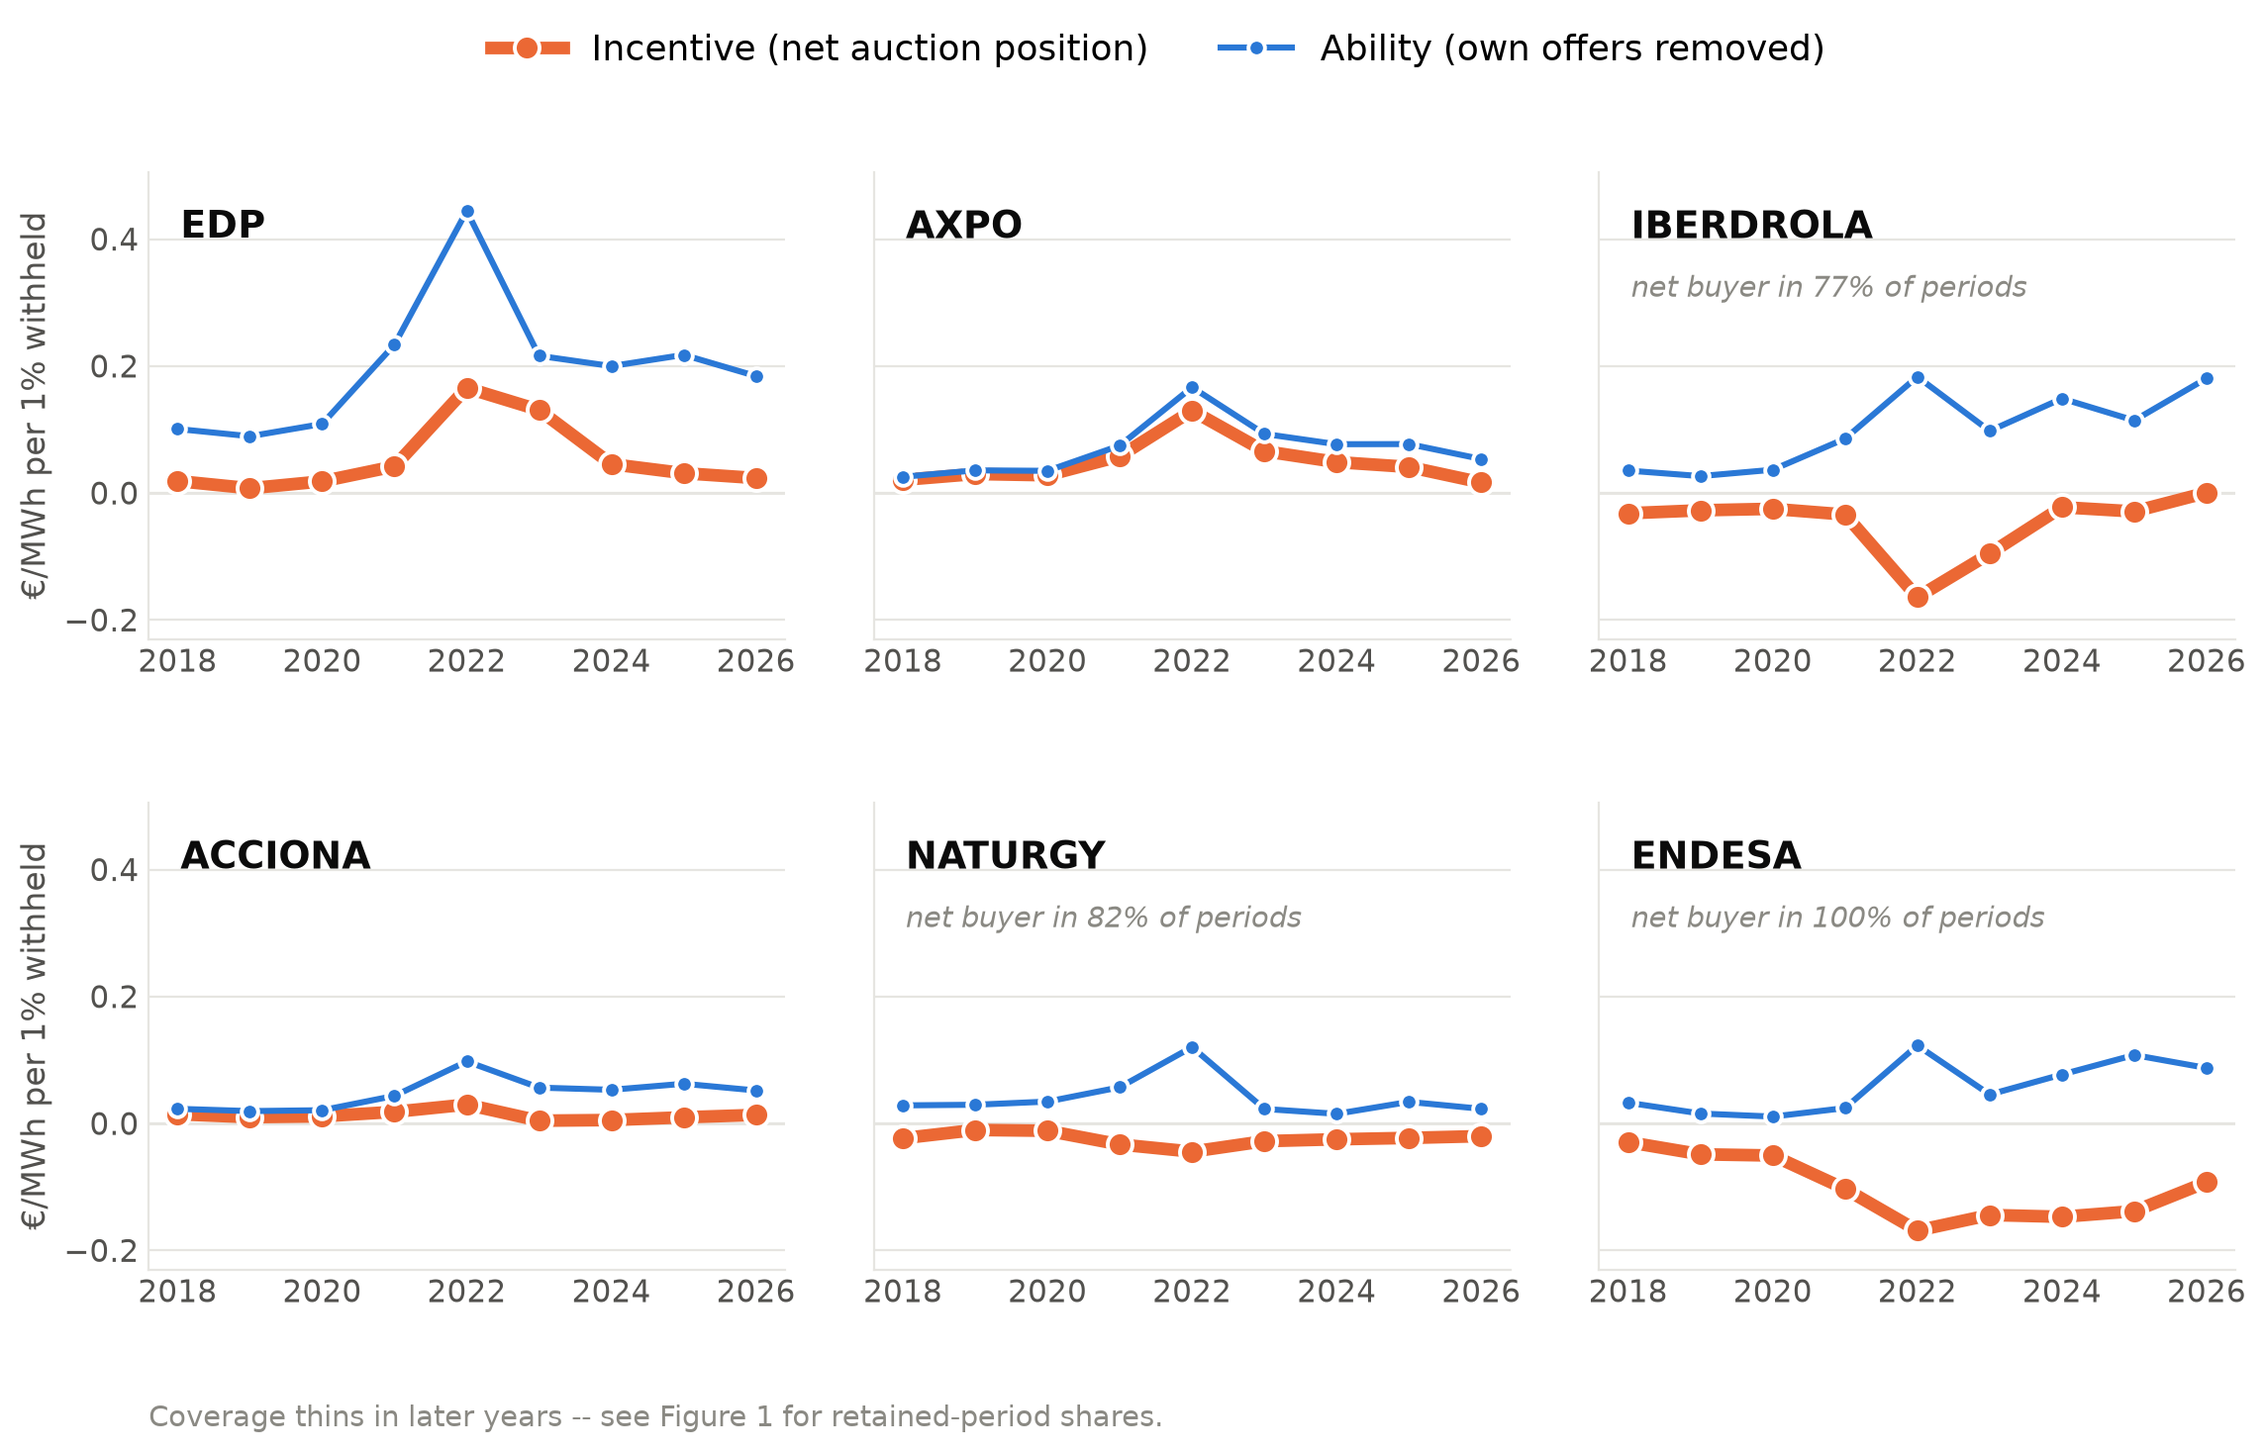
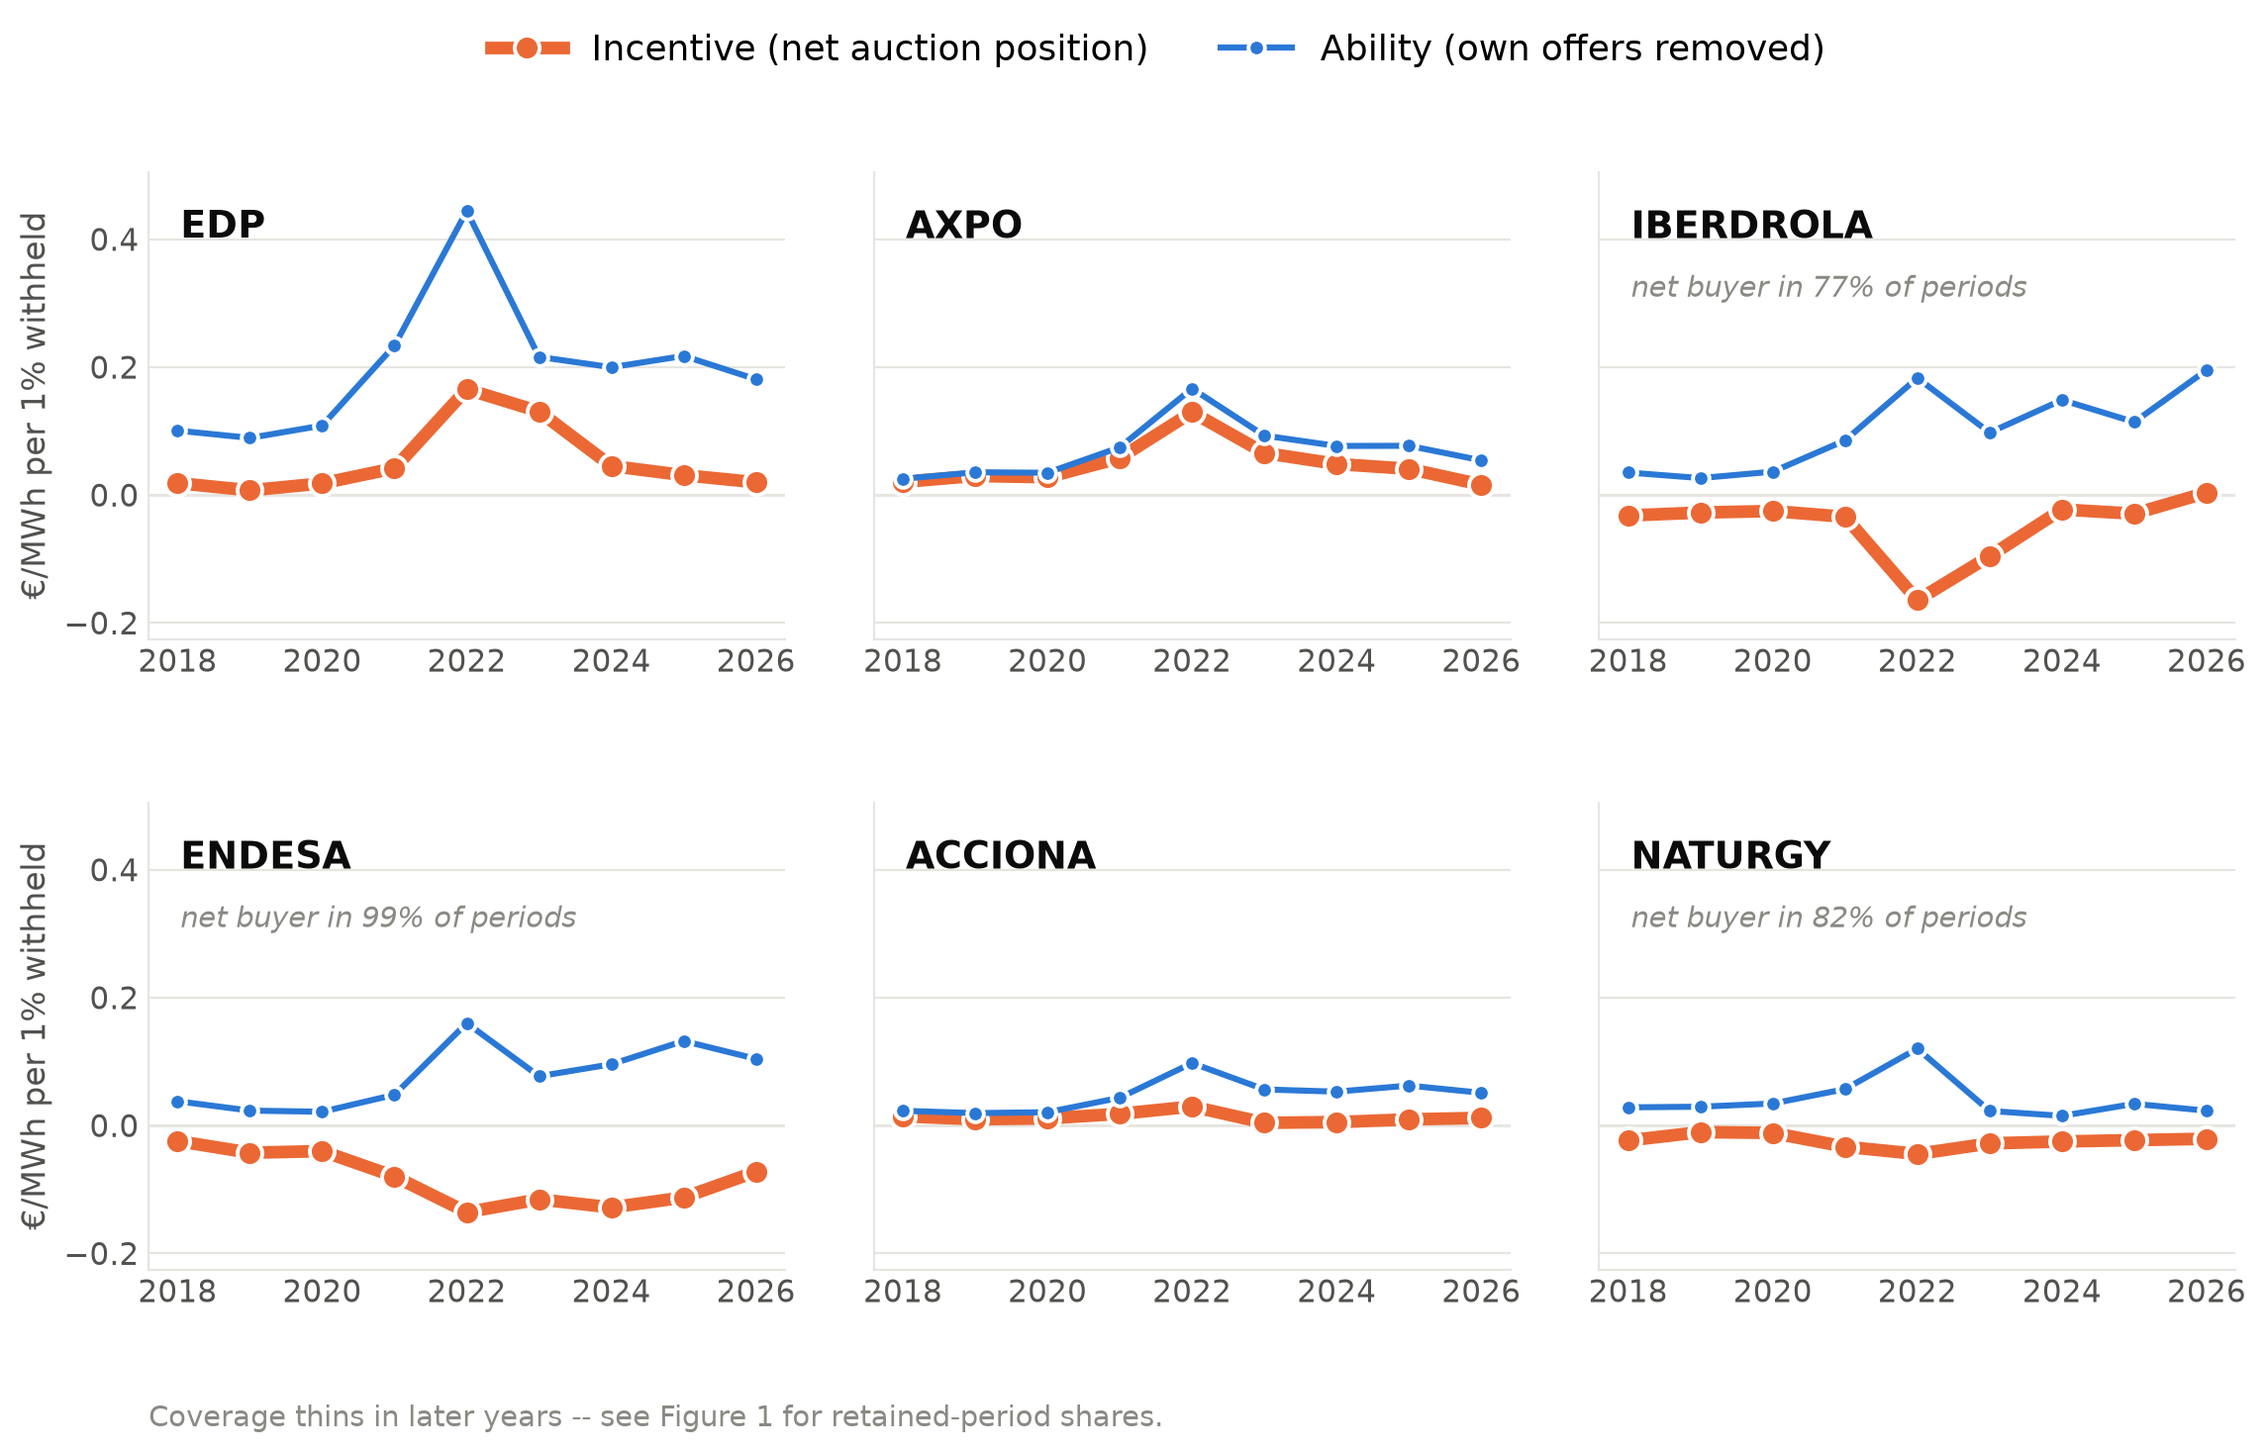
Merge Enel Green Power España into the Endesa owner group
Endesa Generación has owned all of Enel Green Power España since 2016,
but layer 1 grouped it as ENEL after the ESIOS legal name, so Endesa's
residual-demand slope counted its own renewables as a rival's offers.
GROUP_MERGES in build_owner_groups.py folds it in (2 entities, 47 units,
2.1% of supply volume); the owner-tier theta panel, firm panel and
indices are rebuilt on it.

Endesa's ability rises (2022: 0.123 -> 0.160) and its incentive shrinks
but keeps its sign (2022: -0.169 -> -0.135); it is a net buyer in 95-100%
of periods every year. The 2026 column also moves for every firm because
the panel now runs to 2026-05-31.

diff --git a/scripts/build/build_owner_groups.py b/scripts/build/build_owner_groups.py
@@ -127,6 +127,23 @@ MANUAL_GROUPS: dict[str, tuple[str, str]] = {
         "ENCE's biomass arm; ESIOS assigns 12/12 to ENCE"),
 }
 
+# Group-level merges: two group LABELS that are one corporate group. Needed when
+# layer 1 established a group from a legal NAME rather than from ownership --
+# the manual layer above only fills entities layer 1 left open, so it cannot
+# correct a layer-1 label. Applied after all three layers; each carries both
+# in-data evidence and the ownership fact.
+GROUP_MERGES: dict[str, tuple[str, str]] = {
+    "ENEL": ("ENDESA",
+        "Enel Green Power Espana is 100% owned by Endesa Generacion, which bought "
+        "the remaining 60% from Enel Green Power International in 2016 (Enel and "
+        "Endesa filings, July 2016) -- the whole window. In the data, two of the "
+        "entity's own units (ECY*) carry the ESIOS agent ENDESA COGENER Y "
+        "RENOVABLES, which the ESIOS chain assigns to ENDESA; ESIOS labels the "
+        "rest ENEL after the legal name. Standing apart, it made Endesa's "
+        "residual-demand slope count Endesa's own renewables as a rival's "
+        "(merged 2026-09-29)"),
+}
+
 
 def strip_accents(s: str) -> str:
     return "".join(c for c in unicodedata.normalize("NFKD", s)
@@ -208,6 +225,15 @@ def build(verbose: bool = True) -> pd.DataFrame:
     # because no rule found evidence to merge it into another. For a genuinely
     # standalone firm -- Shell, Statkraft, Movhera -- that is the right answer.
     e["source"] = e.source.fillna("self")
+
+    # Group-level merges, last, so they can join a label layer 1 established.
+    for src, (dst, _why) in GROUP_MERGES.items():
+        hit = e.group == src
+        e.loc[hit, "group"] = dst
+        e.loc[hit, "source"] = e.loc[hit, "source"] + "+merge"
+        if verbose:
+            print(f"  group merge {src} -> {dst}: {int(hit.sum())} entities, "
+                  f"{int(e.loc[hit, 'n_units'].sum())} units")
 
     if verbose:
         print(f"{len(e):,} distinct agent_owner strings -> "

diff --git a/scripts/analysis/firm_incentive_rebuild.py b/scripts/analysis/firm_incentive_rebuild.py
@@ -50,7 +50,7 @@ BIDS = DATA / "omie/bids/parquet"
 PANEL = ROOT / "outputs/tables/firm_residual_demand_full_owner.parquet"
 OUT = ROOT / "outputs/tables/firm_incentive_net.parquet"
 MIN_SLOPE = 5.0     # MW per EUR/MWh, as in edp_hydro_panel.py
-TABLE_FIRMS = ["EDP", "IBERDROLA", "ENDESA", "ENEL", "NATURGY", "ACCIONA", "AXPO", "REPSOL"]
+TABLE_FIRMS = ["EDP", "IBERDROLA", "ENDESA", "NATURGY", "ACCIONA", "AXPO", "REPSOL"]
 KEY = ["date", "period"]
 
 
@@ -129,10 +129,8 @@ def report(f: pd.DataFrame) -> None:
         print(f"  h={h:g}: slope_net below {MIN_SLOPE:g} on {(f[f'slope_net_h{h:g}'] < MIN_SLOPE).mean():.4f} "
               f"of firm-periods (index undefined there); median slope_net/slope_i "
               f"{(f[f'slope_net_h{h:g}'] / f[f'slope_i_h{h:g}']).median():.3f}")
-    s = f[f.firm.isin(["ENDESA", "ENEL"])].groupby("firm").agg(
-        periods=("q_firm_mw", "size"), cleared_twh=("q_firm_mw", lambda x: x.sum() / 1e6))
-    print("  ENDESA and ENEL stand as separate groups in the owner mapping:")
-    print(s.round(2).to_string())
+    # Enel Green Power Espana is Endesa's; build_owner_groups.GROUP_MERGES folds it in.
+    print(f"  firm-periods still labelled ENEL: {(f.firm == 'ENEL').sum():,} (0 expected)")
     print(f"\nwrote {OUT.relative_to(ROOT)}  ({len(f):,} firm-periods)")
 
 

diff --git a/notes/rq-descriptive-price-formation.md b/notes/rq-descriptive-price-formation.md
@@ -269,10 +269,13 @@ observable marginal cost.
 > | firm | 2018 | 2020 | 2022 | 2023 | 2024 | 2025 | 2026 | panel `q − θ` says |
 > |---|---|---|---|---|---|---|---|---|
 > | Iberdrola | −4.32 | −3.38 | −3.99 | −3.65 | −1.97 | −1.63 | −2.18 | buyer, up to 4× too large |
-> | **Endesa** | −4.10 | −7.69 | −5.30 | −6.62 | **−8.00** | **−6.44** | **−5.27** | **seller from 2024** ✗ |
+> | **Endesa** | −3.25 | −6.20 | −4.34 | −5.42 | **−6.31** | **−5.65** | **−4.03** | **seller from 2024** ✗ |
 > | Naturgy | −3.24 | −1.70 | −0.38 | −1.53 | −0.98 | −1.18 | −0.45 | buyer ✓ |
 > | Repsol | +1.42 | +0.93 | +1.09 | +0.97 | −0.66 | −0.53 | −0.54 | ≈ the same ✓ |
 > | EDP (+ EDP Comercial) | +1.92 | +2.50 | +0.26 | +1.26 | +2.11 | +0.76 | +0.38 | seller ✓ |
+>
+> Endesa includes Enel Green Power España since the merge of 2026-09-29 (below);
+> before it the row read −4.10, −7.69, −5.30, −6.62, −8.00, −6.44, −5.27.
 >
 > - **Iberdrola, Naturgy and (from 2024) Repsol are net day-ahead buyers on the
 >   correct measure** — the sign survives, for the right reason now.
@@ -304,7 +307,8 @@ observable marginal cost.
 
 **The indices rebuilt, 2026-09-29.** `scripts/analysis/firm_incentive_rebuild.py`
 reads the owner-tier firm panel and adds corrected columns beside the old ones
-(`outputs/tables/firm_incentive_net.parquet`, 5,499,066 firm-periods). Two
+(`outputs/tables/firm_incentive_net.parquet`, 5,524,288 firm-periods, to
+2026-05-31). Two
 changes: every unit a firm owns is mapped, so its own **buy** offers near p* are
 removed from its slope along with its sell offers (`slope_net`, `ability_net`);
 and the incentive uses the **net auction position**, `incentive_net = ability ×
@@ -317,28 +321,28 @@ Median `ability_net_h5`:
 
 | firm | 2018 | 2020 | 2022 | 2023 | 2024 | 2025 | 2026 |
 |---|---|---|---|---|---|---|---|
-| EDP | 0.101 | 0.109 | 0.444 | 0.216 | 0.200 | 0.218 | 0.184 |
-| IBERDROLA | 0.035 | 0.037 | 0.183 | 0.098 | 0.149 | 0.114 | 0.181 |
-| ENDESA | 0.033 | 0.011 | 0.123 | 0.046 | 0.077 | 0.108 | 0.087 |
+| EDP | 0.101 | 0.109 | 0.444 | 0.216 | 0.200 | 0.218 | 0.181 |
+| IBERDROLA | 0.035 | 0.037 | 0.183 | 0.098 | 0.149 | 0.114 | 0.195 |
+| ENDESA | 0.038 | 0.022 | 0.160 | 0.077 | 0.096 | 0.132 | 0.104 |
 | NATURGY | 0.028 | 0.034 | 0.120 | 0.023 | 0.015 | 0.034 | 0.023 |
-| ACCIONA | 0.023 | 0.021 | 0.098 | 0.056 | 0.053 | 0.063 | 0.052 |
-| AXPO | 0.025 | 0.035 | 0.167 | 0.093 | 0.077 | 0.077 | 0.053 |
-| REPSOL | 0.017 | 0.016 | 0.085 | 0.049 | 0.033 | 0.042 | 0.027 |
+| ACCIONA | 0.023 | 0.021 | 0.098 | 0.056 | 0.053 | 0.063 | 0.051 |
+| AXPO | 0.025 | 0.035 | 0.167 | 0.093 | 0.077 | 0.077 | 0.054 |
+| REPSOL | 0.017 | 0.016 | 0.085 | 0.049 | 0.033 | 0.042 | 0.028 |
 
 Removing own demand raises ability for EDP and Iberdrola only (Iberdrola 2024:
-0.121 → 0.149; 2026: 0.147 → 0.181); the rest move in the third decimal. **The
+0.121 → 0.149; 2026: 0.161 → 0.195); the rest move in the third decimal. **The
 ability results above stand, with Iberdrola's slightly higher from 2021.**
 
 Median `incentive_net_h5`, and the share of firm-periods as a net buyer:
 
 | firm | 2018 | 2020 | 2022 | 2023 | 2024 | 2025 | 2026 | net buyer, 2018 → 2026 |
 |---|---|---|---|---|---|---|---|---|
-| EDP | +0.019 | +0.018 | +0.166 | +0.131 | +0.045 | +0.031 | +0.024 | 14% → 27% (seller) |
-| IBERDROLA | −0.032 | −0.025 | −0.164 | −0.096 | −0.022 | −0.029 | 0.000 | **96% → 50%** |
-| ENDESA | −0.029 | −0.051 | −0.169 | −0.144 | −0.147 | −0.138 | −0.093 | **97% → 100%** |
-| NATURGY | −0.023 | −0.012 | −0.044 | −0.028 | −0.025 | −0.023 | −0.020 | 93% → 78% |
-| ACCIONA | +0.014 | +0.011 | +0.030 | +0.004 | +0.005 | +0.010 | +0.013 | 4% → 22% |
-| AXPO | +0.021 | +0.028 | +0.130 | +0.066 | +0.049 | +0.041 | +0.017 | 0% → 10% |
+| EDP | +0.019 | +0.018 | +0.166 | +0.131 | +0.045 | +0.031 | +0.020 | 14% → 31% (seller) |
+| IBERDROLA | −0.032 | −0.025 | −0.164 | −0.096 | −0.022 | −0.029 | +0.004 | **96% → 49%** |
+| ENDESA | −0.024 | −0.040 | −0.135 | −0.115 | −0.128 | −0.112 | −0.072 | **95% → 100%** |
+| NATURGY | −0.023 | −0.012 | −0.044 | −0.028 | −0.025 | −0.023 | −0.021 | 93% → 80% |
+| ACCIONA | +0.014 | +0.011 | +0.030 | +0.004 | +0.005 | +0.010 | +0.012 | 4% → 25% |
+| AXPO | +0.021 | +0.028 | +0.130 | +0.066 | +0.049 | +0.041 | +0.016 | 0% → 9% |
 | REPSOL | +0.008 | +0.005 | +0.024 | +0.007 | −0.010 | −0.013 | −0.017 | **1% → 90%** |
 
 What the rebuilt incentive says:
@@ -347,20 +351,34 @@ What the rebuilt incentive says:
   Axpo are sellers; Repsol becomes a buyer from 2024. The signs of the old index
   mostly survive, but its magnitudes did not: Iberdrola's 2022 value was
   −0.617 and is −0.164.
-- **Endesa never flips.** It is a net buyer in 97–100% of periods in every year;
+- **Endesa never flips.** It is a net buyer in 95–100% of periods in every year;
   the old index showed a flip to positive in 2024 (chain) or 2025 (owner) because
   Endesa moved its storage hydro from bilateral self-supply into the auction,
   which shrank θ and raised q without changing its net position.
 - **Iberdrola is drifting towards balance**: a net buyer in 96% of periods in
-  2018 and 50% in 2026 (a partial year), with the median incentive reaching zero.
+  2018 and 49% in 2026 (a partial year), with the median incentive reaching zero.
   New, and not yet explained.
 
-**A mapping issue this exposes.** `ENEL` (Enel Green Power España, 47 TWh of
-cleared sales in the panel) stands as a separate group from `ENDESA`, although it
-is Endesa's renewables subsidiary. It is a net seller in every period and would
-not change Endesa's sign, but Endesa's slope currently counts those offers as a
-rival's. `build_owner_groups.py` leaves it unmerged for want of evidence in the
-data; merging it would take a hand-verified case there.
+**`ENEL` merged into `ENDESA`, 2026-09-29.** Enel Green Power España (47 TWh of
+cleared sales in the panel) stood as a separate group, although Endesa
+Generación has owned all of it since 2016, so Endesa's slope counted its own
+renewables' offers as a rival's. `GROUP_MERGES` in `build_owner_groups.py` now
+folds it in (2 entities, 47 units, 2.1% of supply volume); the owner-tier θ panel,
+firm panel and indices were rebuilt on it. The tables above are the merged ones.
+For Endesa, 2018–2025, the change is the merge alone:
+
+- **ability rises** — 2020 0.011 → 0.022, 2022 0.123 → 0.160, 2025 0.108 →
+  0.132 — because its renewables join q and leave the rival band;
+- **the incentive shrinks but keeps its sign** — 2022 −0.169 → −0.135, 2024
+  −0.147 → −0.128 — because those renewables are net sellers; the net-buyer
+  share is 95–100% (was 97–100%), and the net position (box above) stays
+  negative in every year.
+
+The 2026 column moved for every firm for a second reason: the rebuilt panel runs
+to 2026-05-31 instead of 2026-05-08, since the bids were refreshed in between.
+Those shifts are in the third decimal except Iberdrola's ability (0.181 → 0.195).
+The inference-chain tier (`build_unit_agents.py`, `FIRM_TOKENS`) still keeps
+`ENEL` apart; only the owner tier is merged.
 
 Median `ability_h5` and `incentive_h5` (€/MWh per 1% withheld), top firms by
 cleared volume:
@@ -865,7 +883,7 @@ not after.
 | band density fell ~2/3 | **established** | falls as a step 2020→2022, not a slide |
 | the collapse is an *evening ramp* phenomenon | **rejected** | it is a midday phenomenon (§4.3) |
 | gas left the margin, hydro took it | **bounded** | resolved periods only, 69–81% coverage |
-| Iberdrola is a net day-ahead buyer | **established, on the net auction position** (rebuilt 2026-09-29) | so are Naturgy and Endesa in every year, and Repsol from 2024. Iberdrola's net-buyer share falls from 96% of periods (2018) to 50% (2026). The earlier evidence, `incentive`'s `(q − θ)`, double-subtracted contracts (§4.5) |
+| Iberdrola is a net day-ahead buyer | **established, on the net auction position** (rebuilt 2026-09-29) | so are Naturgy and Endesa in every year, and Repsol from 2024. Iberdrola's net-buyer share falls from 96% of periods (2018) to 49% (2026). The earlier evidence, `incentive`'s `(q − θ)`, double-subtracted contracts (§4.5) |
 | firm ability (price impact) rose across the window, peaking in 2022 | **established, rebuilt** | own demand now removed from the slope; changes only EDP and Iberdrola, upwards |
 | Endesa's flip to a positive incentive | **withdrawn** (2026-09-28) | an artefact of the double subtraction: Endesa moved hydro from bilateral into the auction in 2024 and stayed a net buyer (§4.5) |
 | θ measures contract position | **bounded** | physical bilateral only; misses financial hedges |

diff --git a/CLAUDE.md b/CLAUDE.md
@@ -351,11 +351,21 @@ below are wrong, and the `IGN` note is wrong in its reasoning even though it
 was right to reject Iberdrola.
 
 **`agent_owner` names legal entities; `build_owner_groups.py` rolls them up.**
-`data/omie/registry/owner_groups.parquet` maps **1,451 owner strings to 1,098
+`data/omie/registry/owner_groups.parquet` maps **1,451 owner strings to 1,097
 groups** on three evidence layers: the independent ESIOS chain's verdict on an
 entity's own units (**81.7%** of supply volume), a stem match onto a group that
 layer established (2.0%), seven hand-verified cases (0.3%), and **13.3% left
-standing as their own group** because no merge evidence was found. Without it
+standing as their own group** because no merge evidence was found.
+
+**One group-level merge, 2026-09-29: `ENEL` → `ENDESA`** (`GROUP_MERGES` in
+`build_owner_groups.py`; 2.1% of supply volume). Enel Green Power España is 100%
+owned by Endesa Generación, which bought the remaining 60% in 2016, so for the
+whole window. Layer 1 had grouped it as `ENEL` because ESIOS labels its agent
+after the legal name; two of the entity's own units (`ECY*`) carry the ESIOS
+agent "Endesa Cogener y Renovables", which the chain assigns to ENDESA. Standing
+apart, it made Endesa's residual-demand slope count Endesa's own renewables as a
+rival's. The manual layer could not do this: it only fills entities layer 1 left
+open, so a merge of two layer-1 *labels* needs its own mechanism. Without it
 `SU ELETRICIDADE` — 7.3% of supply volume, EDP's Portuguese regulated supplier —
 reads as a firm in its own right, and Repsol splits across nine entities.
 
